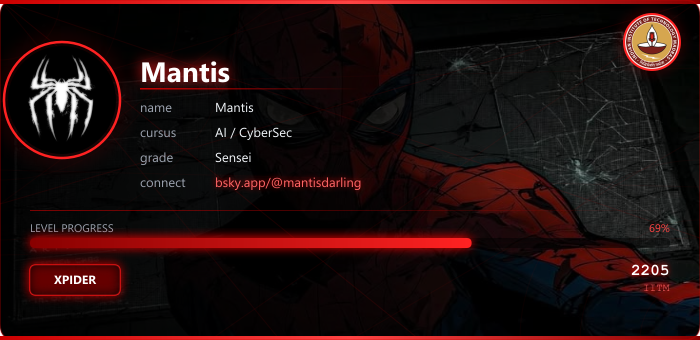
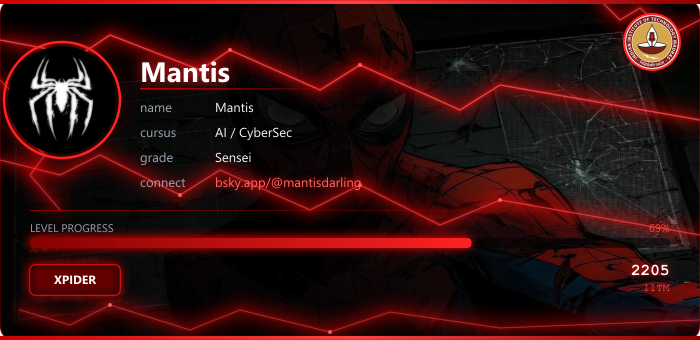
some change on card

diff --git a/generate-card.js b/generate-card.js
@@ -239,57 +239,125 @@ async function generateCard() {
 }
 
 function drawWebLines(ctx, W, H) {
-  // Red spider-web style diagonal lines
-  const lines = [
-    // Main diagonals from corners
-    { x1: 0,   y1: 0,   x2: W*0.6, y2: H,      alpha: 0.12 },
-    { x1: 0,   y1: 0,   x2: W*0.4, y2: H,      alpha: 0.08 },
-    { x1: 0,   y1: 0,   x2: W,     y2: H*0.7,  alpha: 0.10 },
-    { x1: W,   y1: 0,   x2: 0,     y2: H*0.6,  alpha: 0.09 },
-    { x1: W,   y1: 0,   x2: W*0.3, y2: H,      alpha: 0.07 },
-    // Cross lines
-    { x1: 0,   y1: H*0.3, x2: W*0.5, y2: 0,    alpha: 0.06 },
-    { x1: 0,   y1: H*0.6, x2: W*0.4, y2: 0,    alpha: 0.05 },
-    { x1: W,   y1: H*0.4, x2: W*0.5, y2: H,    alpha: 0.06 },
-    // Horizontal faint lines
-    { x1: 0, y1: H*0.25, x2: W, y2: H*0.20, alpha: 0.04 },
-    { x1: 0, y1: H*0.50, x2: W, y2: H*0.55, alpha: 0.04 },
-    { x1: 0, y1: H*0.75, x2: W, y2: H*0.70, alpha: 0.04 },
+  // Red lightning / thunder bolt streaks
+  const bolts = [
+    // Top-left to mid-right
+    [
+      {x: 0,     y: 40},
+      {x: 80,    y: 55},
+      {x: 110,   y: 35},
+      {x: 200,   y: 70},
+      {x: 230,   y: 50},
+      {x: 320,   y: 90},
+      {x: 360,   y: 65},
+      {x: 460,   y: 110},
+      {x: 500,   y: 85},
+      {x: W,     y: 120},
+    ],
+    // Mid to bottom
+    [
+      {x: 0,     y: 160},
+      {x: 60,    y: 175},
+      {x: 100,   y: 155},
+      {x: 180,   y: 195},
+      {x: 220,   y: 170},
+      {x: 310,   y: 210},
+      {x: 360,   y: 185},
+      {x: 440,   y: 225},
+      {x: 500,   y: 200},
+      {x: W,     y: 235},
+    ],
+    // Bottom area
+    [
+      {x: 20,    y: H - 30},
+      {x: 70,    y: H - 15},
+      {x: 110,   y: H - 35},
+      {x: 190,   y: H - 10},
+      {x: 240,   y: H - 30},
+      {x: 330,   y: H - 8},
+      {x: 390,   y: H - 28},
+      {x: 500,   y: H - 12},
+      {x: W,     y: H - 20},
+    ],
+    // Short burst top-right
+    [
+      {x: W - 100, y: 0},
+      {x: W - 80,  y: 20},
+      {x: W - 60,  y: 8},
+      {x: W - 30,  y: 35},
+      {x: W,       y: 20},
+    ],
+    // Diagonal slash left side
+    [
+      {x: 0,   y: 80},
+      {x: 25,  y: 105},
+      {x: 15,  y: 125},
+      {x: 45,  y: 155},
+      {x: 30,  y: 175},
+      {x: 60,  y: 210},
+    ],
   ];
 
-  lines.forEach(l => {
+  bolts.forEach((bolt, bi) => {
+    const alpha = [0.55, 0.45, 0.35, 0.50, 0.40][bi];
+    const width = [1.8, 1.5, 1.2, 1.6, 1.3][bi];
+
+    // Outer glow pass
     ctx.save();
-    ctx.strokeStyle = `rgba(220, 0, 0, ${l.alpha})`;
-    ctx.lineWidth = 1;
+    ctx.strokeStyle = `rgba(255, 0, 0, ${alpha * 0.3})`;
+    ctx.lineWidth = width + 4;
+    ctx.lineJoin = 'round';
+    ctx.lineCap = 'round';
+    ctx.shadowColor = '#ff0000';
+    ctx.shadowBlur = 16;
     ctx.beginPath();
-    ctx.moveTo(l.x1, l.y1);
-    ctx.lineTo(l.x2, l.y2);
+    bolt.forEach((p, i) => i === 0 ? ctx.moveTo(p.x, p.y) : ctx.lineTo(p.x, p.y));
+    ctx.stroke();
+    ctx.restore();
+
+    // Inner bright core
+    ctx.save();
+    ctx.strokeStyle = `rgba(255, 60, 60, ${alpha})`;
+    ctx.lineWidth = width;
+    ctx.lineJoin = 'round';
+    ctx.lineCap = 'round';
+    ctx.shadowColor = '#ff2222';
+    ctx.shadowBlur = 8;
+    ctx.beginPath();
+    bolt.forEach((p, i) => i === 0 ? ctx.moveTo(p.x, p.y) : ctx.lineTo(p.x, p.y));
+    ctx.stroke();
+    ctx.restore();
+
+    // Bright white-red center highlight
+    ctx.save();
+    ctx.strokeStyle = `rgba(255, 180, 180, ${alpha * 0.6})`;
+    ctx.lineWidth = width * 0.4;
+    ctx.lineJoin = 'round';
+    ctx.lineCap = 'round';
+    ctx.beginPath();
+    bolt.forEach((p, i) => i === 0 ? ctx.moveTo(p.x, p.y) : ctx.lineTo(p.x, p.y));
     ctx.stroke();
     ctx.restore();
   });
 
-  // Concentric arc web segments (top-left corner)
-  [60, 120, 180, 240].forEach(r => {
+  // Scattered small spark dots along bolts
+  const sparks = [
+    {x: 80,  y: 55},  {x: 230, y: 50},  {x: 360, y: 65},
+    {x: 180, y: 195}, {x: 360, y: 185}, {x: 500, y: 200},
+    {x: 110, y: H-35},{x: 330, y: H-8},
+  ];
+  sparks.forEach(s => {
     ctx.save();
-    ctx.strokeStyle = `rgba(200, 0, 0, ${0.06 - r*0.0001})`;
-    ctx.lineWidth = 1;
+    ctx.fillStyle = 'rgba(255, 100, 100, 0.9)';
+    ctx.shadowColor = '#ff0000';
+    ctx.shadowBlur = 10;
     ctx.beginPath();
-    ctx.arc(0, 0, r, 0, Math.PI * 0.6);
-    ctx.stroke();
-    ctx.restore();
-  });
-
-  // Concentric arc web segments (bottom-right corner)
-  [60, 120, 180].forEach(r => {
-    ctx.save();
-    ctx.strokeStyle = `rgba(200, 0, 0, ${0.05})`;
-    ctx.lineWidth = 1;
-    ctx.beginPath();
-    ctx.arc(W, H, r, Math.PI, Math.PI * 1.6);
-    ctx.stroke();
+    ctx.arc(s.x, s.y, 2, 0, Math.PI * 2);
+    ctx.fill();
     ctx.restore();
   });
 }
+
 
 function roundRect(ctx, x, y, w, h, r) {
   ctx.beginPath();
